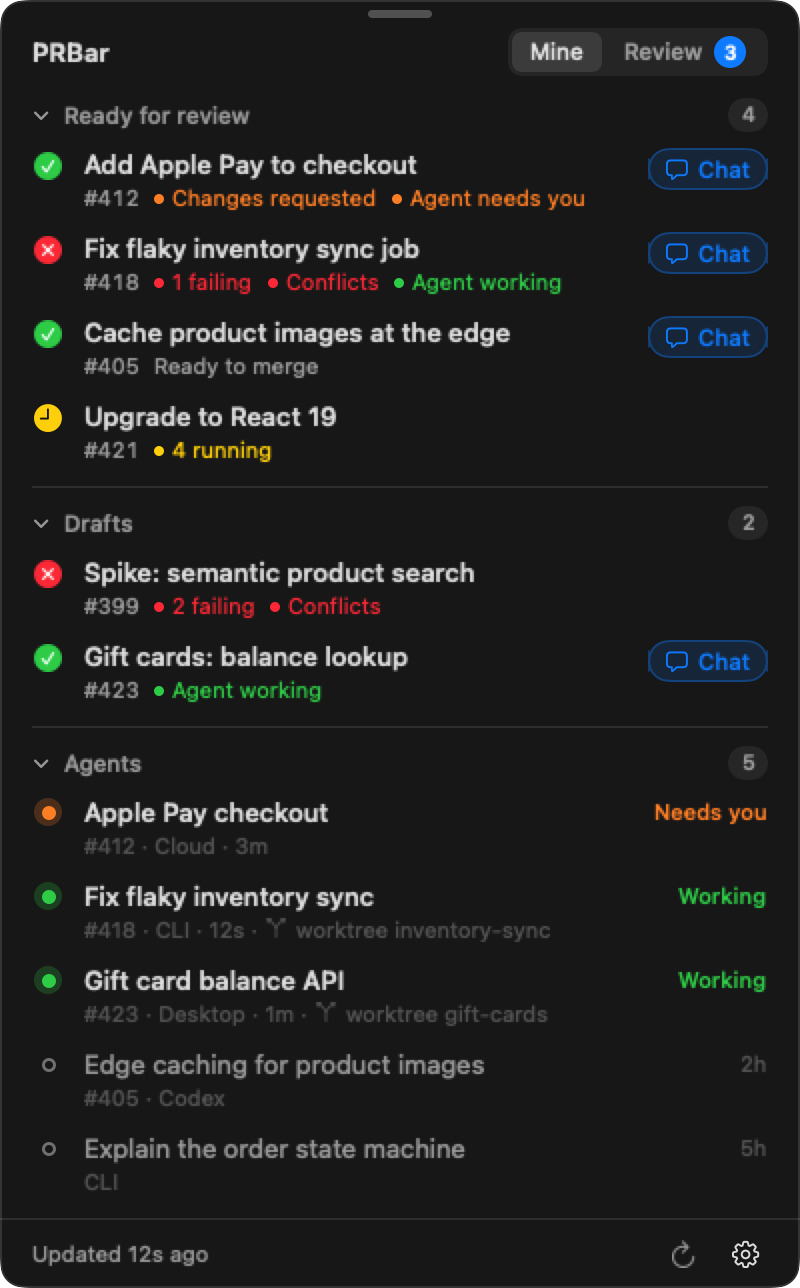
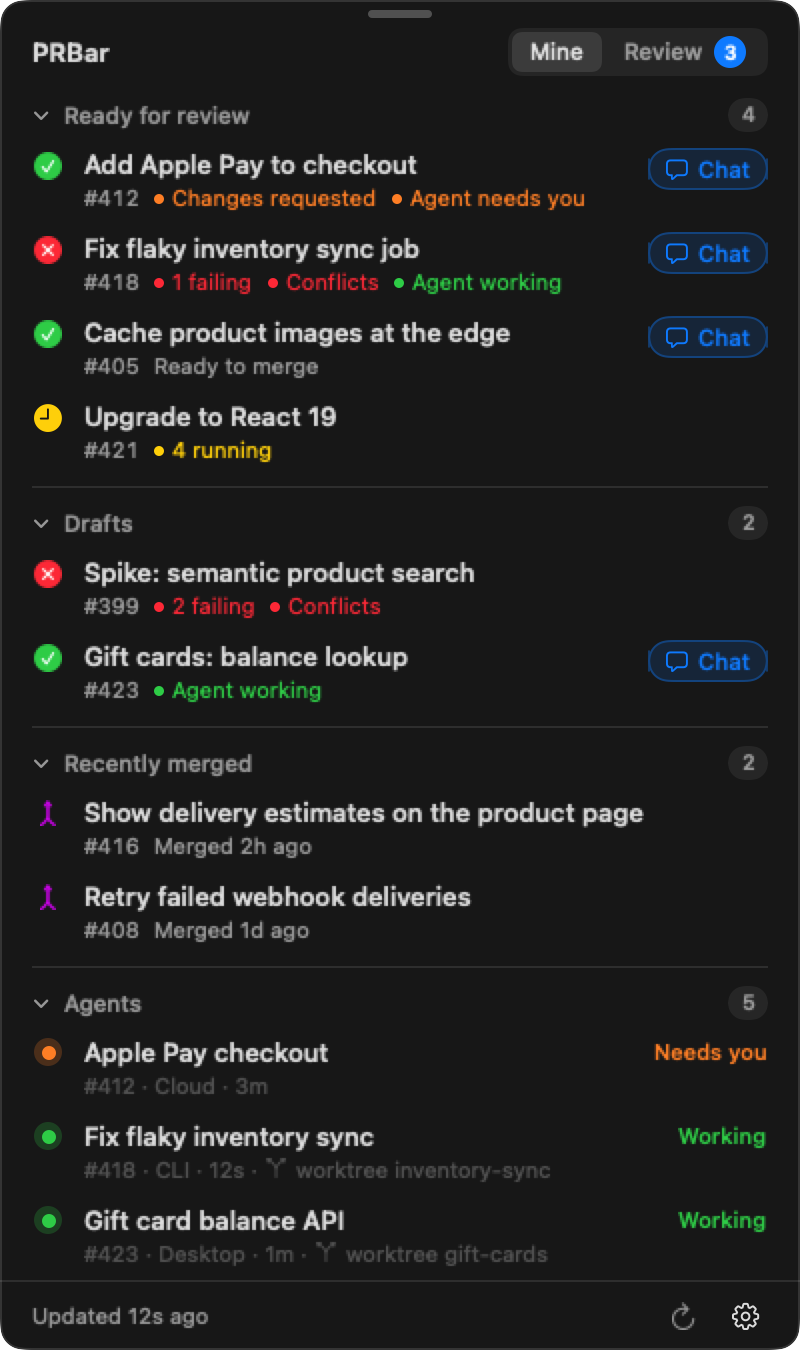
Show recently merged PRs in the Mine tab
Your PRs merged in the last 3 days get their own section below Drafts,
with a purple merge icon, when they merged, and the Chat button.

Also parse GitHub's dates, which have no fractional seconds: they all
came back nil, so the Review tab's ages and "Updated since your review"
never showed.

diff --git a/Sources/PRBar/Store.swift b/Sources/PRBar/Store.swift
@@ -24,6 +24,8 @@ final class Store: ObservableObject {
 
     @Published private(set) var ready: [Row] = []
     @Published private(set) var drafts: [Row] = []
+    /// Your PRs merged in the last few days, newest first.
+    @Published private(set) var merged: [Row] = []
     @Published private(set) var agents: [LinkedAgent] = []
     /// Other people's PRs waiting for your review, and ones you reviewed that got new commits since.
     @Published private(set) var reviewRequested: [ReviewPR] = []
@@ -41,6 +43,7 @@ final class Store: ObservableObject {
     var onChange: (() -> Void)?
 
     private(set) var prs: [PullRequest] = []
+    private(set) var mergedPRs: [PullRequest] = []
     private(set) var localAgents: [Agent] = []
     private(set) var cloudAgents: [Agent] = []
     private(set) var codexAgents: [Agent] = []
@@ -126,13 +129,15 @@ final class Store: ObservableObject {
         guard !githubInFlight else { return }
         githubInFlight = true
         githubQueue.async { [weak self] in
-            let result = Result { try GitHub.fetchOpenPRs() }
+            let result = Result { try GitHub.fetchMyPRs() }
             let review = Result { try GitHub.fetchReviewQueue() }
             DispatchQueue.main.async {
                 guard let self else { return }
                 self.githubInFlight = false
                 switch result {
-                case .success(let prs): self.prs = prs; self.githubError = nil; self.githubUpdated = Date()
+                case .success(let mine):
+                    self.prs = mine.open; self.mergedPRs = mine.merged
+                    self.githubError = nil; self.githubUpdated = Date()
                 case .failure(let e): self.githubError = "\(e)"
                 }
                 self.setReview(review)
@@ -200,8 +205,9 @@ final class Store: ObservableObject {
         guard !menuOpen else { publishPending = true; return }
         publishPending = false
         let rows = link()
-        ready = rows.filter { !$0.pr.isDraft }
-        drafts = rows.filter { $0.pr.isDraft }
+        ready = rows.open.filter { !$0.pr.isDraft }
+        drafts = rows.open.filter { $0.pr.isDraft }
+        merged = rows.merged
         agents = sortAgents(visibleAgents()).map { LinkedAgent(agent: $0, pr: match($0)) }
         counts = Counts(
             needsYou: agents.filter { $0.agent.state == .needsYou }.count,
@@ -221,36 +227,42 @@ final class Store: ObservableObject {
 
     // MARK: Linking
 
-    func link() -> [Row] {
+    func link() -> (open: [Row], merged: [Row]) {
+        // An agent belongs to its open PR first; merged PRs only get the ones no open PR claims.
+        let linkable = { (agent: Agent) in self.match(agent) ?? self.match(agent, in: self.mergedPRs) }
         let live = visibleAgents()
         var byPR: [String: [Agent]] = [:]
         for agent in live {
-            if let pr = match(agent) { byPR[pr.key, default: []].append(agent) }
+            if let pr = linkable(agent) { byPR[pr.key, default: []].append(agent) }
         }
         // Past chats, skipping any that are running (the live entry knows its terminal tab).
         let liveIDs = Set(live.map(\.id))
         var pastByPR: [String: [Agent]] = [:]
         for agent in history where !liveIDs.contains(agent.id) {
-            if let pr = match(agent) { pastByPR[pr.key, default: []].append(agent) }
+            if let pr = linkable(agent) { pastByPR[pr.key, default: []].append(agent) }
         }
 
-        let rows = prs.map { pr in
+        func row(_ pr: PullRequest) -> Row {
             let agents = byPR[pr.key] ?? []
             let latest = (agents + (pastByPR[pr.key] ?? [])).max {
                 ($0.lastActivity ?? .distantPast) < ($1.lastActivity ?? .distantPast)
             }
             return Row(pr: pr, agents: sortAgents(agents), latestChat: latest)
         }
+
+        let open = prs.map(row)
             .enumerated()
             .sorted { a, b in
                 let (pa, pb) = (priority(a.element), priority(b.element))
                 return pa != pb ? pa < pb : a.offset < b.offset
             }
             .map(\.element)
-        return rows
+        return (open, mergedPRs.map(row))
     }
 
-    func match(_ agent: Agent) -> PullRequest? {
+    func match(_ agent: Agent) -> PullRequest? { match(agent, in: prs) }
+
+    private func match(_ agent: Agent, in prs: [PullRequest]) -> PullRequest? {
         if let n = agent.prNumber,
            let pr = prs.first(where: { $0.number == n && (agent.prRepo == nil || $0.repo == agent.prRepo) }) {
             return pr
@@ -286,7 +298,10 @@ final class Store: ObservableObject {
         localAgents = local.poll()
         codexAgents = codex.poll()
         history = sessionHistory.poll() + codex.history()
-        do { prs = try GitHub.fetchOpenPRs(); githubUpdated = Date() } catch { githubError = "\(error)" }
+        do {
+            (prs, mergedPRs) = try GitHub.fetchMyPRs()
+            githubUpdated = Date()
+        } catch { githubError = "\(error)" }
         setReview(Result { try GitHub.fetchReviewQueue() })
         do { cloudAgents = try cloud.poll() } catch { cloudError = "\(error)" }
         publish()
@@ -295,6 +310,7 @@ final class Store: ObservableObject {
     /// Fills the panel with the made-up data in `Demo`, for the README screenshots.
     func loadDemo() {
         prs = Demo.prs
+        mergedPRs = Demo.merged
         localAgents = Demo.localAgents
         cloudAgents = Demo.cloudAgents
         codexAgents = Demo.codexAgents
@@ -312,6 +328,9 @@ final class Store: ObservableObject {
         for row in ready + drafts {
             let pr = row.pr
             print("#\(pr.number) ci=\(pr.ci) review=\(pr.reviewDecision ?? "-") threads=\(pr.unresolvedThreads) \(pr.mergeable) draft=\(pr.isDraft) agents=\(row.agents.map { "\($0.state)" }) latest=\(row.latestChat.map { "[\($0.source)\($0.running ? " running" : "")] \($0.name) \(relativeTime($0.lastActivity))" } ?? "-")")
+        }
+        for row in merged {
+            print("#\(row.pr.number) merged \(relativeTime(row.pr.mergedAt)) ago latest=\(row.latestChat.map { "[\($0.source)] \($0.name)" } ?? "-")")
         }
         print("-- review: \(reviewError ?? "ok")")
         for r in reviewRequested + reviewUpdated {

diff --git a/Sources/PRBar/GitHub.swift b/Sources/PRBar/GitHub.swift
@@ -1,6 +1,6 @@
 import Foundation
 
-/// Fetches the viewer's open PRs and review queue across all repos with `gh api graphql`.
+/// Fetches the viewer's open and recently merged PRs and review queue across all repos with `gh api graphql`.
 enum GitHub {
     /// The fields every PR row needs, shared by your own PRs and the review queue.
     private static let fields = """
@@ -18,9 +18,15 @@ enum GitHub {
     """
 
     private static let query = """
-    query { viewer { pullRequests(states: OPEN, first: 50, orderBy: {field: UPDATED_AT, direction: DESC}) { nodes { ...pr } } } }
+    query { viewer {
+      open: pullRequests(states: OPEN, first: 50, orderBy: {field: UPDATED_AT, direction: DESC}) { nodes { ...pr } }
+      merged: pullRequests(states: MERGED, first: 20, orderBy: {field: UPDATED_AT, direction: DESC}) { nodes { ...pr mergedAt } }
+    } }
     \(fields)
     """
+
+    /// How long a merged PR stays in "Recently merged".
+    static let mergedWindow: TimeInterval = 3 * 86400
 
     /// Other people's PRs: the ones asking for your review, and the ones you reviewed that got new commits since.
     private static let reviewQuery = """
@@ -36,13 +42,21 @@ enum GitHub {
     \(fields)
     """
 
-    static func fetchOpenPRs() throws -> [PullRequest] {
+    /// Your open PRs, and the ones merged within `mergedWindow`, newest merge first.
+    static func fetchMyPRs() throws -> (open: [PullRequest], merged: [PullRequest]) {
         let data = try Shell.run(["gh", "api", "graphql", "-f", "query=\(query)"])
         guard let root = try JSONSerialization.jsonObject(with: data) as? [String: Any],
               let viewer = (root["data"] as? [String: Any])?["viewer"] as? [String: Any],
-              let nodes = (viewer["pullRequests"] as? [String: Any])?["nodes"] as? [[String: Any]]
+              let open = (viewer["open"] as? [String: Any])?["nodes"] as? [[String: Any]]
         else { throw Shell.Failure(description: "unexpected GitHub response") }
-        return nodes.compactMap(pullRequest)
+        let merged = ((viewer["merged"] as? [String: Any])?["nodes"] as? [[String: Any]]) ?? []
+        return (
+            open.compactMap(pullRequest),
+            // Sorted by last update, which a comment after the merge also bumps, so re-sort by the merge.
+            merged.compactMap(pullRequest)
+                .filter { $0.mergedAt.map { -$0.timeIntervalSinceNow < mergedWindow } ?? false }
+                .sorted { $0.mergedAt! > $1.mergedAt! }
+        )
     }
 
     static func fetchReviewQueue() throws -> (requested: [ReviewPR], updated: [ReviewPR]) {
@@ -118,7 +132,8 @@ enum GitHub {
             checksPending: pending,
             author: (n["author"] as? [String: Any])?["login"] as? String ?? "",
             createdAt: parseISO(n["createdAt"] as? String),
-            lastCommitAt: parseISO(commit?["committedDate"] as? String)
+            lastCommitAt: parseISO(commit?["committedDate"] as? String),
+            mergedAt: parseISO(n["mergedAt"] as? String)
         )
     }
 }

diff --git a/Sources/PRBar/PanelView.swift b/Sources/PRBar/PanelView.swift
@@ -62,7 +62,7 @@ struct PanelView: View {
     // MARK: Tabs
 
     @ViewBuilder private var mine: some View {
-        if store.ready.isEmpty && store.drafts.isEmpty {
+        if store.ready.isEmpty && store.drafts.isEmpty && store.merged.isEmpty {
             EmptyLine(text: store.githubUpdated == nil ? "Loading…" : "No open pull requests")
         }
         if !store.ready.isEmpty {
@@ -73,6 +73,11 @@ struct PanelView: View {
         if !store.drafts.isEmpty {
             section("drafts", "Drafts", store.drafts.count, divider: !store.ready.isEmpty) {
                 ForEach(store.drafts) { PRRow(row: $0) }
+            }
+        }
+        if !store.merged.isEmpty {
+            section("merged", "Recently merged", store.merged.count, divider: !store.ready.isEmpty || !store.drafts.isEmpty) {
+                ForEach(store.merged) { MergedRow(row: $0) }
             }
         }
         if !store.agents.isEmpty {
@@ -186,7 +191,7 @@ private struct NotificationToggle: View {
 
 /// The symbols and colors shared by the panel and the menu bar, so the two always match.
 enum Indicator {
-    case needsYou, working, watching, idle, passing, failing, ready, draft
+    case needsYou, working, watching, idle, passing, failing, ready, draft, merged
 
     var symbol: String {
         switch self {
@@ -196,6 +201,7 @@ enum Indicator {
         case .passing: return "checkmark.circle.fill"
         case .failing: return "xmark.circle.fill"
         case .ready, .draft: return "arrow.triangle.pull"
+        case .merged: return "arrow.triangle.merge"
         }
     }
 
@@ -204,6 +210,7 @@ enum Indicator {
         case .needsYou: return .systemOrange
         case .ready: return .systemGreen
         case .draft: return .systemGray
+        case .merged: return .systemPurple
         case .working, .passing: return .systemGreen
         case .watching: return .systemBlue
         case .idle: return .tertiaryLabelColor
@@ -445,6 +452,28 @@ private struct PRRow: View {
             }
         }
         return tags
+    }
+}
+
+/// One of your PRs merged in the last few days: a purple merge icon instead of CI, and when it merged.
+private struct MergedRow: View {
+    let row: Store.Row
+
+    private var pr: PullRequest { row.pr }
+
+    var body: some View {
+        HStack(alignment: .top, spacing: 10) {
+            Image(systemName: Indicator.merged.symbol)
+                .font(.system(size: 13, weight: .medium))
+                .foregroundStyle(Indicator.merged.color)
+                .frame(width: 16)
+                .padding(.top, 1)
+            PRLines(pr: pr, tags: [Tag(text: "Merged \(relativeTime(pr.mergedAt)) ago")])
+            Spacer(minLength: 6)
+            if let chat = row.latestChat { ChatButton(agent: chat) }
+        }
+        .modifier(RowButton { Browser.open(pr.url) })
+        .help("\(pr.repo) · \(pr.headRef)\n\(pr.title)")
     }
 }
 

diff --git a/Sources/PRBar/Demo.swift b/Sources/PRBar/Demo.swift
@@ -7,14 +7,15 @@ enum Demo {
     private static func pr(_ number: Int, _ title: String, draft: Bool = false, review: String? = nil,
                            mergeable: String = "MERGEABLE", threads: Int = 0, passed: Int = 6, failed: Int = 0,
                            pending: Int = 0, author: String = "you", age: TimeInterval = 86400,
-                           newCommits: Bool = false) -> PullRequest {
+                           newCommits: Bool = false, mergedAgo: TimeInterval? = nil) -> PullRequest {
         PullRequest(
             repo: repo, number: number, title: title,
             url: URL(string: "https://github.com/\(repo)/pull/\(number)")!,
             isDraft: draft, headRef: "branch-\(number)", reviewDecision: review, mergeable: mergeable,
             unresolvedThreads: threads, checksPassed: passed, checksFailed: failed, checksPending: pending,
             author: author, createdAt: Date(timeIntervalSinceNow: -age),
-            lastCommitAt: Date(timeIntervalSinceNow: newCommits ? -600 : -age)
+            lastCommitAt: Date(timeIntervalSinceNow: newCommits ? -600 : -age),
+            mergedAt: mergedAgo.map { Date(timeIntervalSinceNow: -$0) }
         )
     }
 
@@ -25,6 +26,11 @@ enum Demo {
         pr(421, "Upgrade to React 19", pending: 4),
         pr(423, "Gift cards: balance lookup", draft: true),
         pr(399, "Spike: semantic product search", draft: true, mergeable: "CONFLICTING", passed: 3, failed: 2),
+    ]
+
+    static let merged = [
+        pr(416, "Show delivery estimates on the product page", mergedAgo: 2 * 3600),
+        pr(408, "Retry failed webhook deliveries", mergedAgo: 30 * 3600),
     ]
 
     private static func agent(_ kind: Agent.Kind, _ source: String, _ name: String, _ state: AgentState,

diff --git a/Sources/PRBar/Model.swift b/Sources/PRBar/Model.swift
@@ -16,6 +16,7 @@ struct PullRequest {
     var author = ""
     var createdAt: Date? = nil
     var lastCommitAt: Date? = nil
+    var mergedAt: Date? = nil
 
     enum CI { case passing, failing, pending, none }
 
@@ -119,9 +120,12 @@ let isoFormatter: ISO8601DateFormatter = {
     return f
 }()
 
+/// GitHub's dates have no fractional seconds ("2026-10-21T10:24:41Z"), which `isoFormatter` rejects.
+let wholeSecondsISOFormatter = ISO8601DateFormatter()
+
 func parseISO(_ s: String?) -> Date? {
     guard let s else { return nil }
-    if let d = isoFormatter.date(from: s) { return d }
+    if let d = isoFormatter.date(from: s) ?? wholeSecondsISOFormatter.date(from: s) { return d }
     // The cloud API uses microsecond precision, which ISO8601DateFormatter rejects.
     let trimmed = s.replacingOccurrences(of: #"(\.\d{3})\d+"#, with: "$1", options: .regularExpression)
     return isoFormatter.date(from: trimmed)

diff --git a/README.md b/README.md
@@ -17,7 +17,7 @@ The menu bar shows counts with the same icons: PRs ready for review (green), dra
 
 PRs are split into **Ready for review** and **Drafts**. Within each section they're sorted by what needs attention: agents waiting on you, then failing CI or conflicts, then review feedback, then in-progress work, then quiet PRs. 
 
-PR rows list what needs attention under the title: failing or running checks, conflicts, changes requested, unresolved threads, and whether an agent on it is working or needs you. A PR with nothing in the way says **Ready to merge** (or **Awaiting review** while a required review is missing). Click a section heading to fold it; PRBar remembers which ones you folded.
+PR rows list what needs attention under the title: failing or running checks, conflicts, changes requested, unresolved threads, and whether an agent on it is working or needs you. A PR with nothing in the way says **Ready to merge** (or **Awaiting review** while a required review is missing). Below them, **Recently merged** lists your PRs merged in the last 3 days, newest first, with a purple merge icon and how long ago each merged, plus the Chat button for its latest chat. Click a section heading to fold it; PRBar remembers which ones you folded.
 
 The **Review** tab lists other people's open PRs: **Requested from you** (with how long the request has waited, orange after a day) and **Updated since your review** (PRs you reviewed that got new commits since, tagged with your review). Each row shows CI, the author's initials and the PR's age. The badge on the tab counts pending review requests.
 
@@ -45,7 +45,7 @@ Clicking the icon opens a panel. Clicking a PR opens it on GitHub in the backgro
 
 | What | Where it comes from | Refresh |
 | --- | --- | --- |
-| Open PRs, CI checks, review state, unresolved threads | `gh api graphql` (`viewer.pullRequests`, all repos) | 45s, and right after any local agent finishes a turn |
+| Open and recently merged PRs, CI checks, review state, unresolved threads | `gh api graphql` (`viewer.pullRequests`, all repos) | 45s, and right after any local agent finishes a turn |
 | Review tab | `gh api graphql` searches: `review-requested:@me` and `reviewed-by:@me -author:@me` (open, non-draft), with your latest review compared against the last commit | Same as above |
 | Local Claude Code sessions (CLI, Desktop, IDE) | `~/.claude/sessions/<pid>.json` (live status) plus incremental tail of each session's transcript (`pr-link`, `ai-title`, `last-prompt`, recaps) | 3s |
 | Codex threads (CLI and desktop app) | `~/.codex/state_*.sqlite` `threads` table, plus the task events at the end of each rollout log. Claude Code sessions Codex imported (listed in `external_agent_session_imports.json`) and Codex sub-agents are skipped. Idle threads are shown only while Codex is running. | 5s |
